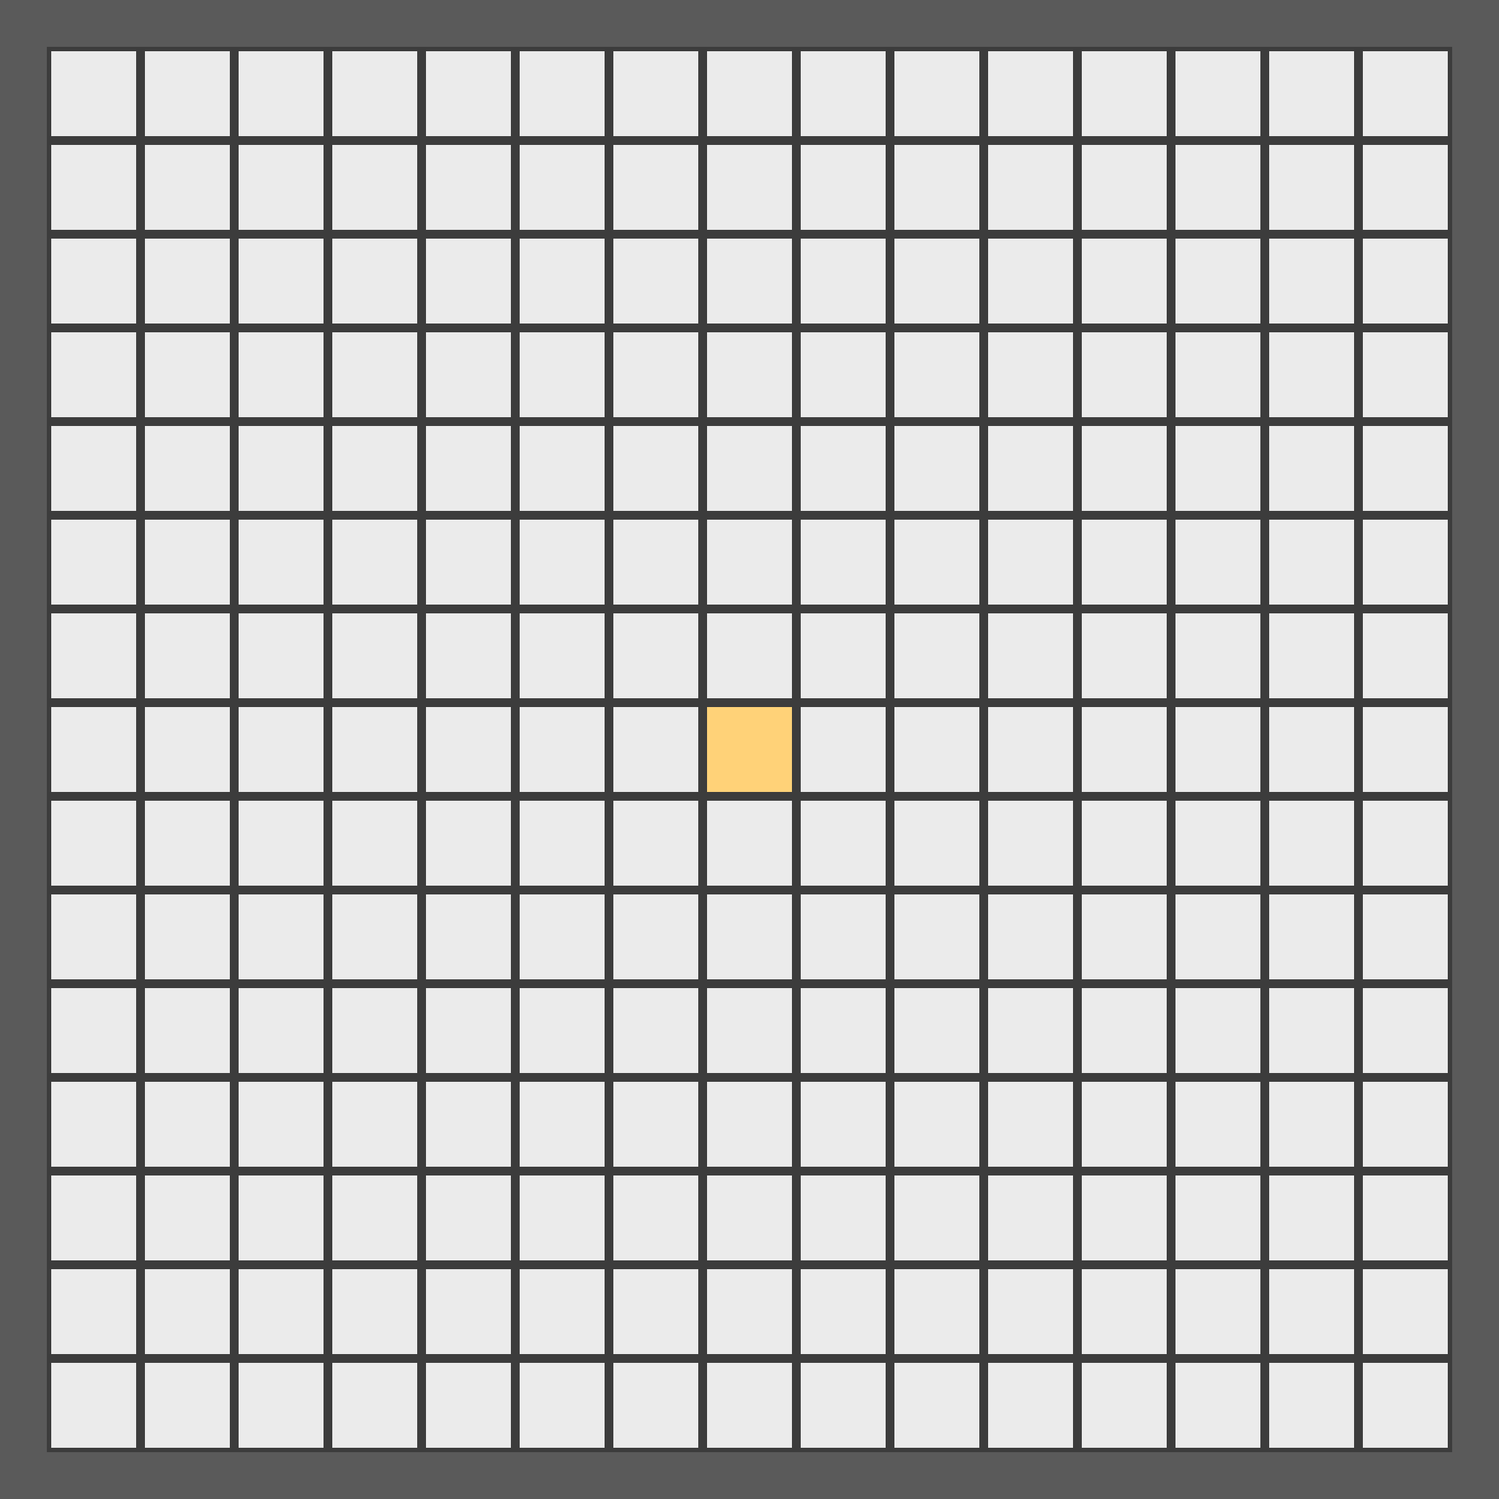
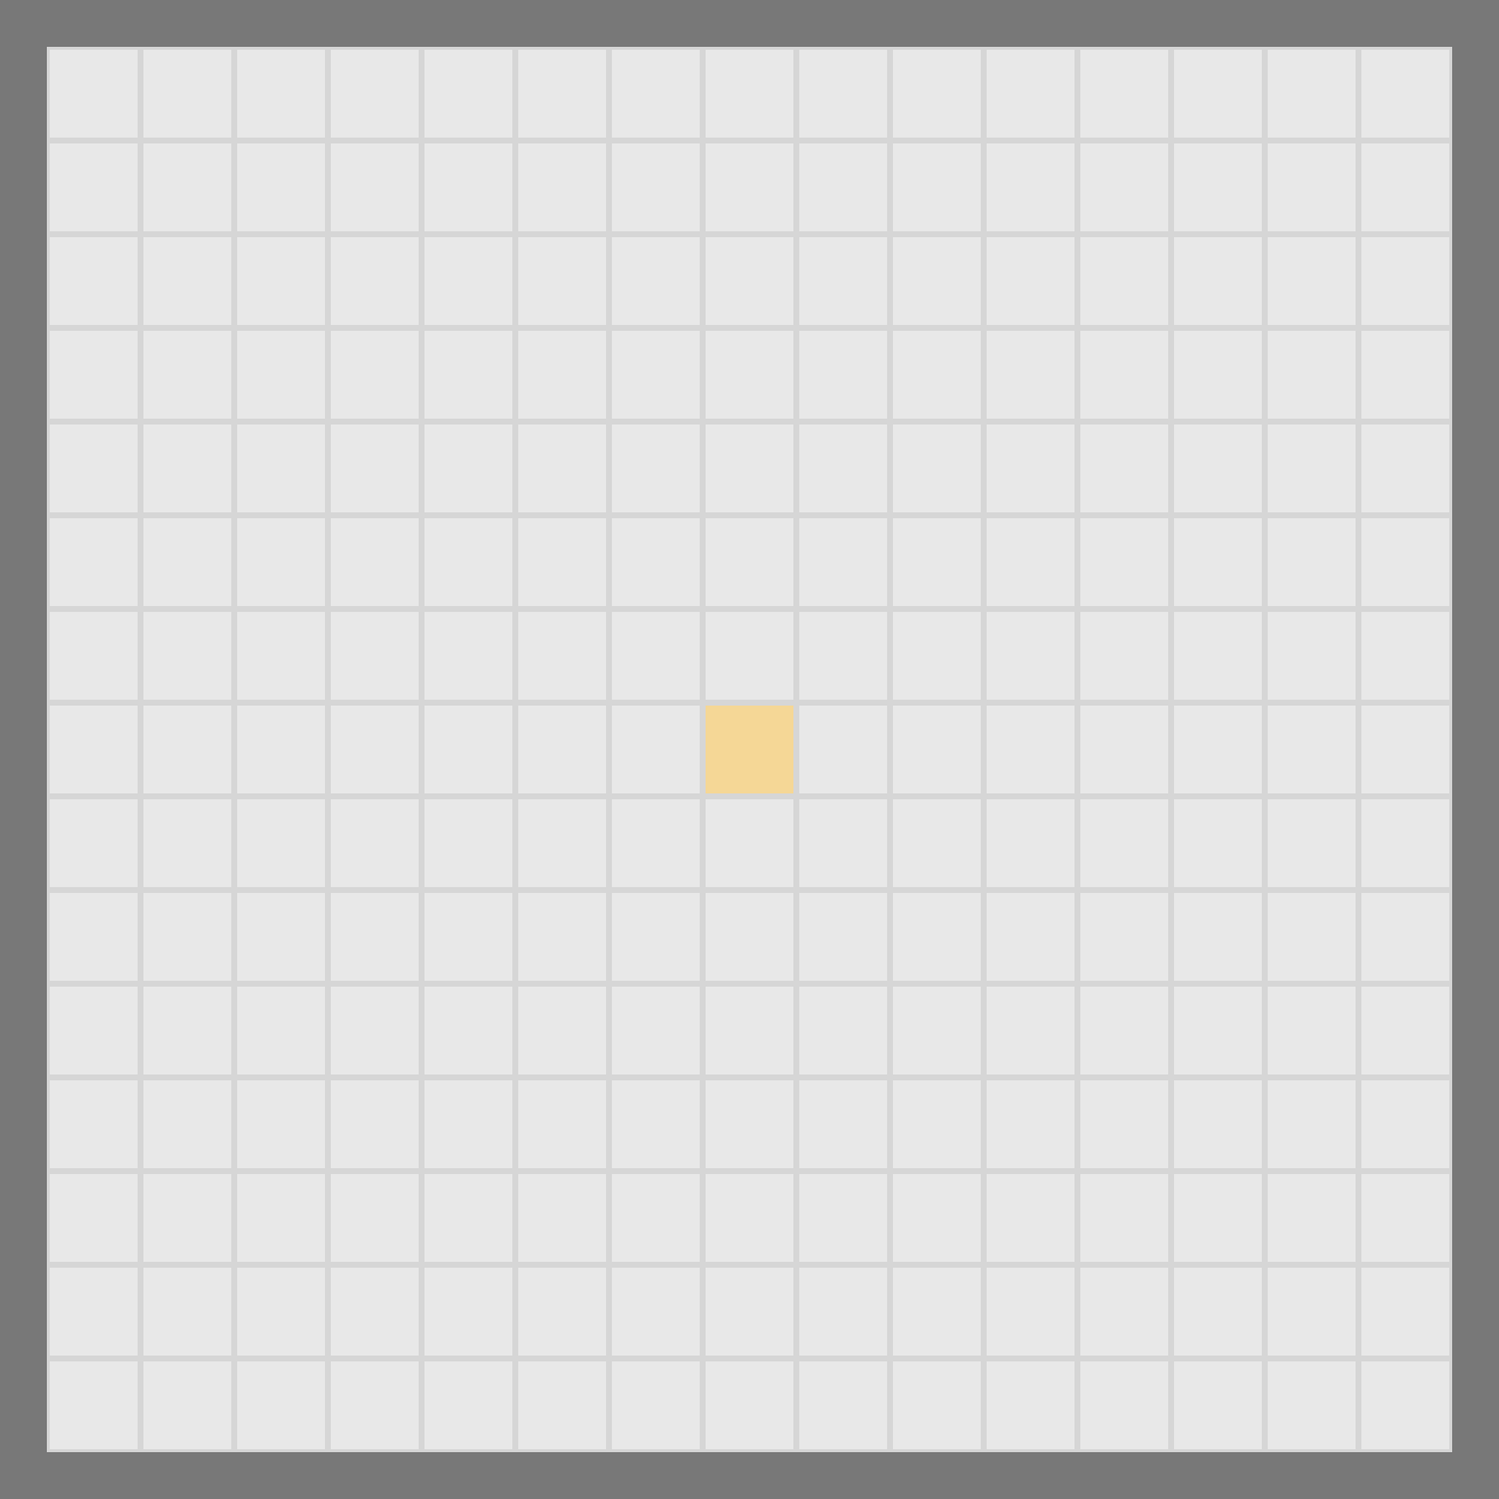
Calmer board: no outlines on empty cells, recessed stone shading, raised letter stones, soft bonus chips
Rows of light cells split by crisp dark lines make the eye see flickering
spots at the crossings (Hermann grid) and tire quickly. Empty cells now
have no outline and only a faint recess shade; placed letters read as
raised stones with a short soft shadow; bonus chips lose their hard rings.
Board prompts and the grid template now ask for low-contrast joints with
no lights at the intersections.

Claude-Session: https://claude.ai/code/session_01Q9npnNaJrFGCfT5oQegzca

Changed region(s): [[0.0, 0.0, 1.0, 1.0]]

diff --git a/app/src/main/java/com/sonharf/game/WordSiegePanMatch.kt b/app/src/main/java/com/sonharf/game/WordSiegePanMatch.kt
@@ -959,16 +959,10 @@ private fun PanSiegeBoardCell(
             )
             .padding(regionGap)
             .graphicsLayer { scaleX = if (WordSiegeWalnutIvory.enabled) pressScale else 1f; scaleY = if (WordSiegeWalnutIvory.enabled) pressScale else 1f }
+            // Raised stones cast a short soft shadow; empty recesses cast none.
+            .shadow(if (letter != null && !WordSiegeWalnutIvory.enabled) 2.dp else 0.dp, RoundedCornerShape(7.dp), clip = false)
             .clip(RoundedCornerShape(7.dp))
-            .background(
-                Brush.linearGradient(
-                    listOf(
-                        androidx.compose.ui.graphics.lerp(displayBase, Color.White, if (WordSiegeWalnutIvory.enabled) .08f else .18f),
-                        displayBase,
-                        androidx.compose.ui.graphics.lerp(displayBase, Color.Black, if (WordSiegeWalnutIvory.enabled) .10f else .07f),
-                    )
-                )
-            )
+            .background(wordSiegeCellBrush(displayBase, raised = letter != null, walnut = WordSiegeWalnutIvory.enabled))
             .border(
                 width = if (dropTarget) 3.dp else if (lastMoveHighlight > 0f) 1.75.dp else 0.dp,
                 color = if (dropTarget) Color(0xFF2FB36A) else PanSiegeLastMove.copy(alpha = .45f + .45f * lastMoveHighlight),
@@ -983,7 +977,7 @@ private fun PanSiegeBoardCell(
             shape = RoundedCornerShape(7.dp),
             border = BorderStroke(
                 if (pending) maxOf(if (WordSiegeWalnutIvory.enabled) 1.6.dp else 1.4.dp, borderWidth) else if (WordSiegeWalnutIvory.enabled) .65.dp else .45.dp,
-                if (WordSiegeWalnutIvory.enabled) (if (pending) WordSiegeWalnutIvory.selection else if (letter != null) WordSiegeWalnutIvory.bevel else if (activeBonus != null) border else WordSiegeWalnutIvory.emptyEdge) else (if (pending) border.copy(alpha = .92f) else Color(0xFFCDBF9F)),
+                if (WordSiegeWalnutIvory.enabled) (if (pending) WordSiegeWalnutIvory.selection else if (letter != null) WordSiegeWalnutIvory.bevel else if (activeBonus != null) border else WordSiegeWalnutIvory.emptyEdge) else (if (pending) border.copy(alpha = .92f) else if (letter != null) Color(0xFFCDBF9F).copy(alpha = .55f) else Color.Transparent),
             ),
         ) {
             Box(

diff --git a/app/src/main/java/com/sonharf/game/WordSiegePracticeBoard.kt b/app/src/main/java/com/sonharf/game/WordSiegePracticeBoard.kt
@@ -508,16 +508,10 @@ private fun WordSiegePracticeBoardCell(
             }
             .padding(regionGap)
             .graphicsLayer { scaleX = if (WordSiegeWalnutIvory.enabled) pressScale else 1f; scaleY = if (WordSiegeWalnutIvory.enabled) pressScale else 1f }
+            // Raised stones cast a short soft shadow; empty recesses cast none.
+            .shadow(if (letter != null && !WordSiegeWalnutIvory.enabled) 2.dp else 0.dp, RoundedCornerShape(8.dp), clip = false)
             .clip(RoundedCornerShape(8.dp))
-            .background(
-                Brush.linearGradient(
-                    listOf(
-                        androidx.compose.ui.graphics.lerp(displayCellColor, Color.White, .18f),
-                        displayCellColor,
-                        androidx.compose.ui.graphics.lerp(displayCellColor, Color.Black, .07f),
-                    )
-                )
-            )
+            .background(wordSiegeCellBrush(displayCellColor, raised = letter != null, walnut = WordSiegeWalnutIvory.enabled))
             .border(
                 width = if (dropTarget) 3.dp else if (hintGlow != null) 2.2.dp else if (lastMoveHighlight > 0f) 1.7.dp else .45.dp,
                 color = if (dropTarget) {
@@ -526,7 +520,10 @@ private fun WordSiegePracticeBoardCell(
                     Color(0xFFFFE082)
                 } else if (lastMoveHighlight > 0f) {
                     PracticeLastMove.copy(alpha = 0.45f + .45f * lastMoveHighlight)
-                } else if (WordSiegeWalnutIvory.enabled) WordSiegeWalnutIvory.emptyEdge else Color(0xFFCDBF9F),
+                } else if (letter == null) {
+                    // Empty cells have no outline: the recess shading separates them without a grid of lines.
+                    Color.Transparent
+                } else if (WordSiegeWalnutIvory.enabled) WordSiegeWalnutIvory.emptyEdge else Color(0xFFCDBF9F).copy(alpha = .55f),
                 shape = RoundedCornerShape(8.dp),
             ),
         contentAlignment = Alignment.Center,

diff --git a/app/src/main/java/com/sonharf/game/WordSiegeBonusMark.kt b/app/src/main/java/com/sonharf/game/WordSiegeBonusMark.kt
@@ -96,8 +96,13 @@ internal fun WordSiegeBonusMark(
         Modifier.fillMaxSize()
             .padding(if (overview) 5.dp else 3.5.dp)
             .clip(shape)
-            .background(ink.copy(alpha = if (seal) .10f else .08f))
-            .border(if (strong) 1.6.dp else 1.dp, ink.copy(alpha = if (strong) .85f else .55f), shape)
+            // A soft embossed chip: gentle glow in the middle, a faint rim, no hard ring.
+            .background(
+                androidx.compose.ui.graphics.Brush.radialGradient(
+                    listOf(ink.copy(alpha = if (seal) .16f else .12f), ink.copy(alpha = if (strong) .07f else .04f)),
+                ),
+            )
+            .border(1.dp, ink.copy(alpha = if (strong) .32f else .20f), shape)
             .padding(if (round) 5.dp else 3.dp),
         contentAlignment = Alignment.Center,
     ) {
@@ -123,3 +128,27 @@ internal fun WordSiegeBonusMark(
         }
     }
 }
+
+/**
+ * Board cell surface. Empty cells read as shallow recesses in stone (a hair darker at the top-left
+ * rim, no hard outline) so 225 of them rest the eye; tiles with a letter read as raised stones
+ * with a soft top light and a darker lower edge.
+ */
+internal fun wordSiegeCellBrush(base: Color, raised: Boolean, walnut: Boolean): androidx.compose.ui.graphics.Brush =
+    if (raised) {
+        androidx.compose.ui.graphics.Brush.verticalGradient(
+            listOf(
+                androidx.compose.ui.graphics.lerp(base, Color.White, if (walnut) .10f else .16f),
+                base,
+                androidx.compose.ui.graphics.lerp(base, Color.Black, .12f),
+            ),
+        )
+    } else {
+        androidx.compose.ui.graphics.Brush.linearGradient(
+            listOf(
+                androidx.compose.ui.graphics.lerp(base, Color.Black, if (walnut) .06f else .035f),
+                base,
+                androidx.compose.ui.graphics.lerp(base, Color.White, if (walnut) .03f else .05f),
+            ),
+        )
+    }

diff --git a/docs/store-art/kusatma-tahta-3b-komutlari.md b/docs/store-art/kusatma-tahta-3b-komutlari.md
@@ -20,26 +20,37 @@ Renkli bonus kareleri, "2K / 3H" yazıları, ahşap raf ve düz bej tahta bu gö
 | Dış çerçeve | her kenarda 64 px (süsler yalnız burada) |
 | Oyun alanı | 1920 × 1920 px, sol üst köşe (64, 64) |
 | Kare adımı | 128 px (1920 / 15) |
-| Taş plaka | 116 × 116 px, her karenin tam ortasında |
-| Plakalar arası derz | 12 px (her taraf 6 px) |
+| Taş plaka | 120 × 120 px, her karenin tam ortasında |
+| Plakalar arası derz | 8 px (her taraf 4 px), **plakayla neredeyse aynı renk** |
 | Merkez kare | 8. satır, 8. sütun: (960, 960) merkezli plaka |
-| Işık | sol üstten, 45°, yumuşak; bütün plakalarda aynı gölge yönü |
+| Işık | yumuşak, bulutlu gün ışığı; kısa ve silik gölge |
 | Kamera | tam tepeden (orthographic top-down), **perspektif yok** |
 
 Plaka merkezleri: x = 128 + 128·i, y = 128 + 128·j (i, j = 0…14).
+
+## Göz yormaması için (en önemli kural)
+
+225 açık kareyi koyu, keskin çizgilerle ayırınca çizgilerin kesiştiği yerlerde gri noktalar yanıp söner gibi görünür (Hermann ızgara yanılsaması). Göz kayar, baş döner. Kesişimlerde parlayan nokta varsa etki çok daha güçlü olur. Bunu önlemek için:
+
+- Derzler koyu çizgi olmayacak. Plakayla **aynı renk ailesinde, en fazla %8–10 daha koyu**, ince ve yumuşak olacak.
+- Kesişim noktalarında ışık, parıltı, nokta, çivi ya da süs **olmayacak**.
+- Plakalar **mat** olacak. Parlak kenar ışığı ve sert beyaz bevel çizgisi olmayacak.
+- Plakalar arasında **hafif doğal ton farkı** olacak, çünkü birebir aynı kareler tekrarı artırır.
+- Gölgeler kısa ve silik olacak (bulutlu gün ışığı).
+- Uygulama oyunda da aynı kuralı uyguluyor: boş karelerde çizgi yok, yalnız hafif gölge var.
 
 ---
 
 ## Ortak kurallar (her tahta komutunun başına aynen ekle)
 
 ```
-Top-down orthographic 3D render of a game board, 2048x2048 px, exactly square. Camera perfectly overhead, zero perspective, zero lens distortion, zero tilt. The playing field is a perfect 15 by 15 grid of identical square stone plates: each plate 116x116 px, plate centres on an exact 128 px pitch starting at (128,128), 12 px joints between plates, all plates the same size, perfectly aligned in straight rows and columns, none missing, none covered, none rotated. Outer frame band of 64 px on every side; decorative elements (rocks, plants, water, snow, ruins) are allowed ONLY inside this outer frame band and must never overlap any plate. Plates are flat-topped with a subtle 3D bevel (about 6 px), physically based materials, soft ambient occlusion in the joints, one soft key light from the top-left at 45 degrees so every plate casts the same short shadow. Plate tops are mostly calm and low-contrast so letters drawn on top stay readable: keep texture detail subtle in the centre of each plate. NO letters, NO numbers, NO symbols, NO coloured bonus squares, NO text, NO logos, NO watermark, NO wooden rack, NO game pieces. Must not resemble Scrabble or any existing word-game board: no red, pink, light-blue or dark-blue premium squares, no star in the centre, no beige cardboard look. Style: premium mobile strategy-game terrain, like a miniature fortified landscape seen from above.
+Top-down orthographic 3D render of a game board, 2048x2048 px, exactly square. Camera perfectly overhead, zero perspective, zero lens distortion, zero tilt. The playing field is a perfect 15 by 15 grid of identical square stone plates: each plate 116x116 px, plate centres on an exact 128 px pitch starting at (128,128), 12 px joints between plates, all plates the same size, perfectly aligned in straight rows and columns, none missing, none covered, none rotated. Outer frame band of 64 px on every side; decorative elements (rocks, plants, water, snow, ruins) are allowed ONLY inside this outer frame band and must never overlap any plate. Plates are 120x120 px with 8 px joints. EYE COMFORT IS CRITICAL: the joints must be very low contrast, the same colour family as the plates and only 8-10% darker, soft and thin, never dark lines, never black grout; absolutely no lights, glows, dots, studs or ornaments where joints cross. Plates are matte with a very soft rounded bevel (no bright edge highlights), gentle natural tone variation from plate to plate, realistic physically based stone, soft overcast daylight with short faint shadows. Plate tops are calm and low-contrast so letters drawn on top stay readable. NO letters, NO numbers, NO symbols, NO coloured bonus squares, NO text, NO logos, NO watermark, NO wooden rack, NO game pieces. Must not resemble Scrabble or any existing word-game board: no red, pink, light-blue or dark-blue premium squares, no star in the centre, no beige cardboard look. Style: premium mobile strategy-game terrain, like a miniature fortified landscape seen from above.
 ```
 
 Olumsuz komut (Higgsfield "negative prompt" alanı):
 
 ```
-perspective, tilted camera, fisheye, uneven grid, missing tiles, merged tiles, different tile sizes, text, letters, numbers, logo, watermark, scrabble, red squares, pink squares, blue squares, star, wooden rack, cardboard, people, animals, blurry, low resolution
+perspective, tilted camera, fisheye, uneven grid, missing tiles, merged tiles, different tile sizes, dark grout lines, black joints, high contrast grid, glowing dots, lights at intersections, shiny bevels, glossy tiles, text, letters, numbers, logo, watermark, scrabble, red squares, pink squares, blue squares, star, wooden rack, cardboard, people, animals, blurry, low resolution
 ```
 
 **Higgsfield ayarları:** kare oran (1:1), en yüksek çözünürlük, "structure / reference" gücü yüksek (0.7–0.85). Sabit bir seed kullan, böylece dört tema aynı dilde çıkar.
@@ -53,7 +64,7 @@ Dosya adı: `board_stone_keep.png`
 
 ```
 [ORTAK KURALLAR]
-Theme: sunlit ancient stone keep. Plates are warm limestone (#D9D0BC to #CFC5AE) with faint natural cracks and very soft moss in the joints. The outer frame band is a low weathered castle wall of rough grey-beige blocks with small tufts of grass and a few pebbles tucked against it; four corner towers seen from above as round stone caps. Overall palette calm, warm and light so dark ink letters read clearly.
+Theme: sunlit ancient stone keep. Plates are warm limestone (#D9D0BC to #CFC5AE) with faint natural cracks; joints are the same limestone tone only slightly darker (#C4B99F), with a hint of moss, never dark. The outer frame band is a low weathered castle wall of rough grey-beige blocks with small tufts of grass and a few pebbles tucked against it; four corner towers seen from above as round stone caps. Overall palette calm, warm and light so dark ink letters read clearly.
 ```
 
 ### 2. Vadi Nehri (yeşil tema)
@@ -61,7 +72,7 @@ Dosya adı: `board_river_valley.png`
 
 ```
 [ORTAK KURALLAR]
-Theme: green river valley fortress. Plates are pale granite (#CFCBBE) with a faint green patina in the joints. In the outer frame band only: a thin turquoise stream running around the four sides, mossy boulders in each corner, small shrubs. The stream and boulders never cross into the 15x15 plate area. Palette fresh and natural, plate tops stay light and calm.
+Theme: green river valley fortress. Plates are pale granite (#CFCBBE); joints are soft grey-green (#B9B7A8), only slightly darker than the plates, never dark. In the outer frame band only: a thin turquoise stream running around the four sides, mossy boulders in each corner, small shrubs. The stream and boulders never cross into the 15x15 plate area. Palette fresh and natural, plate tops stay light and calm.
 ```
 
 ### 3. Kar Kalesi (kış teması)
@@ -69,7 +80,7 @@ Dosya adı: `board_frost_citadel.png`
 
 ```
 [ORTAK KURALLAR]
-Theme: frozen mountain citadel. Plates are frosted blue-white stone (#E6ECF2 to #D8E0EA) with a thin layer of powder snow at the edges of each plate only, plate centres clear and smooth. Outer frame band: dark slate wall (#3E4652) with snow on top, small snowy pine trees and ice rocks in the corners. Cold daylight from the top-left, crisp soft shadows. Plate tops must stay evenly light so letters read clearly; no ice glare on plates.
+Theme: frozen mountain citadel. Plates are frosted blue-white stone (#E6ECF2 to #D8E0EA), plate centres clear and smooth; joints are filled with soft snow in a slightly darker blue-grey (#C9D3DF), never dark slate lines. Outer frame band: dark slate wall (#3E4652) with snow on top, small snowy pine trees and ice rocks in the corners. Cold daylight from the top-left, crisp soft shadows. Plate tops must stay evenly light so letters read clearly; no ice glare on plates.
 ```
 
 ### 4. Obsidyen Kale (siyah tema)
@@ -77,7 +88,7 @@ Dosya adı: `board_obsidian_bastion.png`
 
 ```
 [ORTAK KURALLAR]
-Theme: night obsidian bastion. Plates are matte dark basalt (#2A2D33 to #33373F) with a very subtle warm gold hairline bevel on each plate edge. Joints glow faintly with a dim amber light (very low intensity). Outer frame band: black volcanic stone wall with thin gold inlay lines and four small brazier-like corner caps (unlit or softly glowing). Plate tops stay uniformly dark and matte so light ivory letters read clearly; no reflections on plates.
+Theme: night obsidian bastion. Plates are matte dark basalt (#2A2D33 to #33373F); joints are only slightly darker basalt (#23262B), no gold lines on the plates, no glowing joints, no lights or dots at intersections. Outer frame band: black volcanic stone wall with thin gold inlay lines and four small brazier-like corner caps (unlit or softly glowing). Plate tops stay uniformly dark and matte so light ivory letters read clearly; no reflections on plates.
 ```
 
 ---

diff --git a/docs/store-art/kusatma-canva-komutlari.md b/docs/store-art/kusatma-canva-komutlari.md
@@ -13,6 +13,14 @@ Tasarım dili, isimler ve renkler `kusatma-tahta-3b-komutlari.md` ile aynıdır.
   3. Oyun 15×15 ızgarayı bu plakayla kodda, milimetrik hizalı kurar. Böylece kareler asla kaymaz.
 - **Şeffaf arka plan:** Canva görseli şeffaf üretmez. Bonus ikonlarını üret, sonra **Düzenle → Arka Plan Kaldırıcı** (BG Remover) ile arka planı sil ve **PNG, şeffaf arka plan** olarak indir. Bu özellik Canva Pro ister.
 
+## Göz yormaması için
+
+Açık kareleri koyu çizgilerle ayırmak, çizgilerin kesiştiği yerlerde yanıp sönen noktalar gibi görünür (Hermann ızgara yanılsaması) ve baş döndürür. Bu yüzden:
+
+- Plakalar mat ve yumuşak kenarlı olacak.
+- Oyun plakaları aralarında **plakayla aynı renkte, çok ince** boşlukla dizecek; koyu çizgi ve kesişim noktasında ışık olmayacak.
+- Plakada parlak kenar ışığı istemiyoruz.
+
 ## Canva ayarları
 
 - Oluştur: **Görsel**
@@ -29,22 +37,22 @@ Tasarım dili, isimler ve renkler `kusatma-tahta-3b-komutlari.md` ile aynıdır.
 
 **Taş Kale**, dosya adı `plate_stone_keep.png`:
 ```
-Top-down 3D render of one square limestone floor plate, warm beige-grey, soft bevelled edges, subtle cracks, calm flat top, soft light from top-left, plain dark background. No text, no letters, no symbols.
+Top-down 3D render of one square limestone floor plate, warm beige-grey, matte, very soft rounded edges, faint cracks, calm flat top, soft overcast light, no shiny edges, plain beige background. No text, no letters, no symbols.
 ```
 
 **Vadi Nehri**, dosya adı `plate_river_valley.png`:
 ```
-Top-down 3D render of one square pale granite floor plate, faint green moss only at the edges, soft bevel, calm flat top, soft light from top-left, plain dark background. No text, no letters, no symbols.
+Top-down 3D render of one square pale granite floor plate, matte, very soft rounded edges, calm flat top, soft overcast light, no shiny edges, plain pale grey background. No text, no letters, no symbols.
 ```
 
 **Kar Kalesi**, dosya adı `plate_frost_citadel.png`:
 ```
-Top-down 3D render of one square frosted blue-white stone plate, thin powder snow only on the edges, smooth clear top, soft bevel, cold daylight from top-left, plain dark background. No text, no letters.
+Top-down 3D render of one square frosted blue-white stone plate, matte, very soft rounded edges, smooth clear top, soft overcast light, no shiny edges, plain pale blue background. No text, no letters.
 ```
 
 **Obsidyen Kale**, dosya adı `plate_obsidian.png`:
 ```
-Top-down 3D render of one square matte dark basalt plate, thin warm gold bevel line on the edges, smooth dark top, no reflections, soft light from top-left, plain black background. No text, no letters.
+Top-down 3D render of one square matte dark basalt plate, matte, very soft rounded edges, no gold lines, no reflections, soft light, plain dark grey background. No text, no letters.
 ```
 
 ## 2. Çerçeve ve zemin (her tema için 1 adet)
